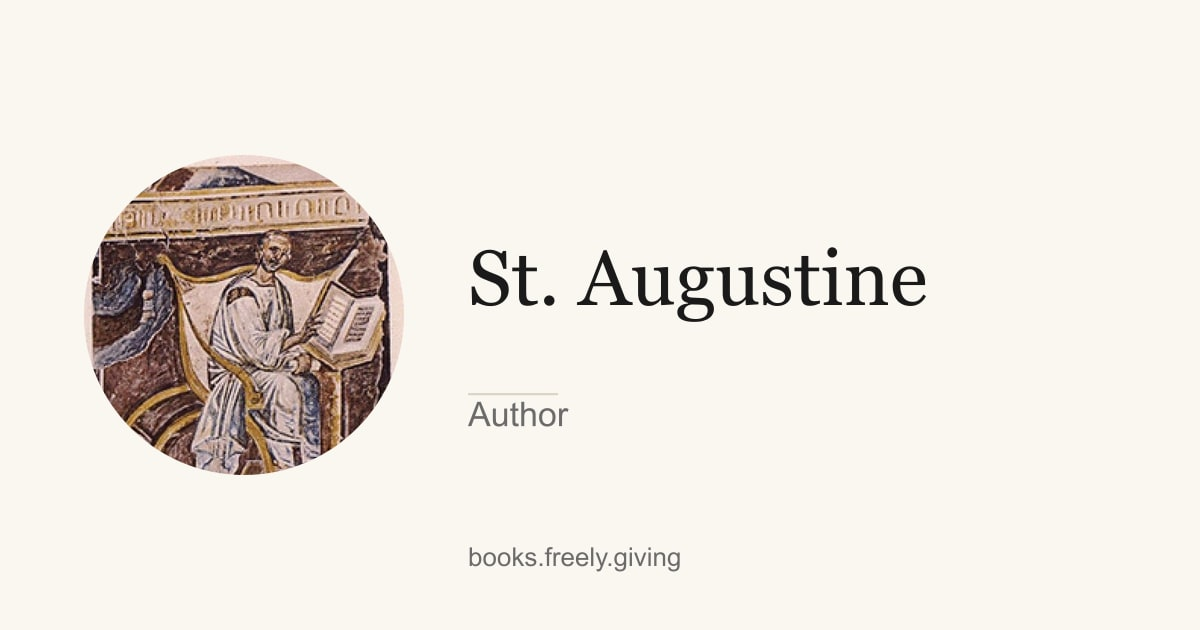
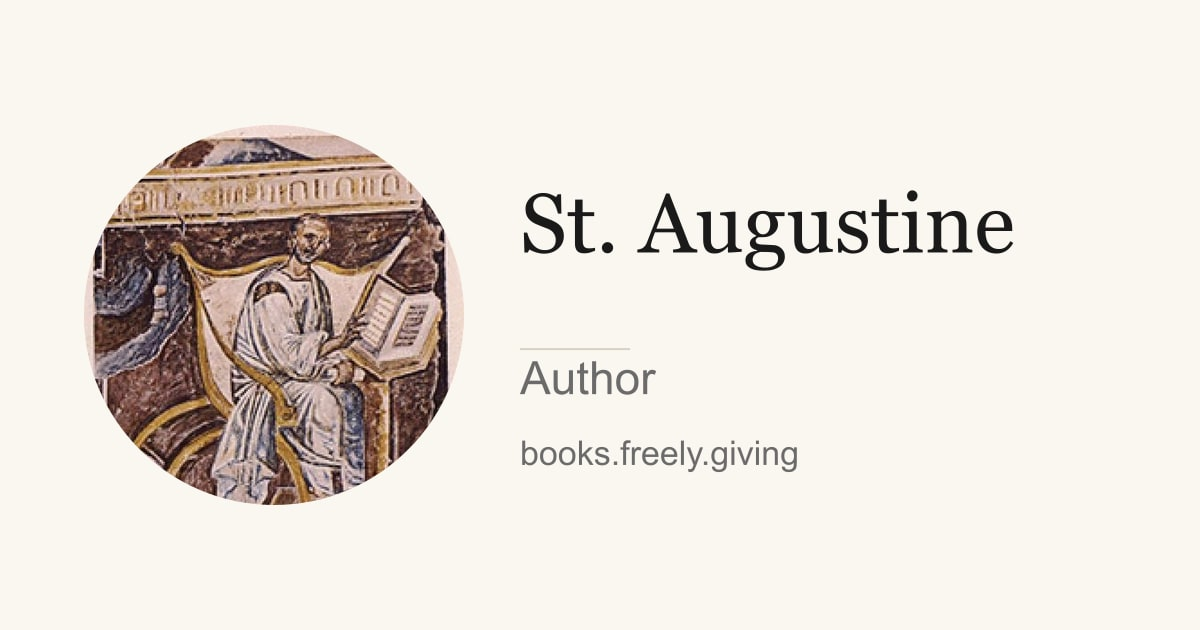
Rework the person card so the small text reads
"Author" and the site line were the smallest things on the card and sat in a
sea of whitespace — the site line was pinned to the foot, leaving a large void
between it and the role.

Name, role and link now read as one group, centred together: role 34->46,
site line 26->34, name 78->84, and the portrait 320->380 so it carries more of
the frame. Two-line names still wrap cleanly.

Changed region(s): [[0.0617, 0.181, 0.8633, 0.8143], [0.37, 0.8746, 0.5858, 0.9048]]

diff --git a/scripts/build-og.js b/scripts/build-og.js
@@ -224,26 +224,37 @@ async function personCard(person, role, out) {
 
   // A person with no photo still gets a card — text alone, centred — so no page ever
   // falls back to the generic site image.
-  const size = 320;
+  const size = 380;
   const art = src ? await fitArt(src, size, size, { round: true }) : null;
   const left = PAD + 20;
   const top = Math.round((H - size) / 2);
 
-  const textX = src ? left + size + 64 : PAD;
+  const textX = src ? left + size + 56 : PAD;
   const textW = W - textX - PAD;
 
   const name = personName(person);
-  const nameSize = name.length > 22 ? 64 : 78;
+  const nameSize = name.length > 22 ? 68 : 84;
   const nameLines = wrap(name, textW, nameSize, 2);
 
-  let y = Math.round(H / 2) - 10;
+  const roleSize = 46;
+  const siteSize = 34;
+
+  // Name, role and site read as one group. Pinning the site line to the foot of the card
+  // instead left a large void between it and the role on a card carrying only a name.
+  const blockH =
+    nameLines.length * nameSize * 1.22 + 30 + roleSize + 34 + siteSize;
+
+  let y = Math.round((H - blockH) / 2) + nameSize * 0.72;
+  if (y < PAD + nameSize) y = PAD + nameSize;
+
   let svg = textBlock(nameLines, textX, y, nameSize, INK, SERIF);
   let cursor = y + nameLines.length * nameSize * 1.22;
 
-  cursor += 22;
-  svg += `<line x1="${textX}" y1="${cursor - 28}" x2="${textX + 90}" y2="${cursor - 28}" stroke="${RULE}" stroke-width="2"/>`;
-  svg += `<text x="${textX}" y="${cursor + 4}" font-family="${SANS}" font-size="34" fill="${MUTED}">${esc(role)}</text>`;
-  svg += `<text x="${textX}" y="${H - PAD}" font-family="${SANS}" font-size="26" fill="${MUTED}">${SITE}</text>`;
+  cursor += 30;
+  svg += `<line x1="${textX}" y1="${cursor - roleSize * 0.78}" x2="${textX + 110}" y2="${cursor - roleSize * 0.78}" stroke="${RULE}" stroke-width="2"/>`;
+  svg += `<text x="${textX}" y="${cursor + roleSize * 0.2}" font-family="${SANS}" font-size="${roleSize}" fill="${MUTED}">${esc(role)}</text>`;
+  cursor += roleSize + 34;
+  svg += `<text x="${textX}" y="${cursor}" font-family="${SANS}" font-size="${siteSize}" fill="${MUTED}">${SITE}</text>`;
 
   await composeCard({ art, artBox: { top, left }, svgText: svg, out });
   return true;
